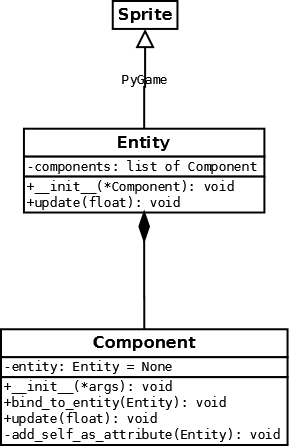
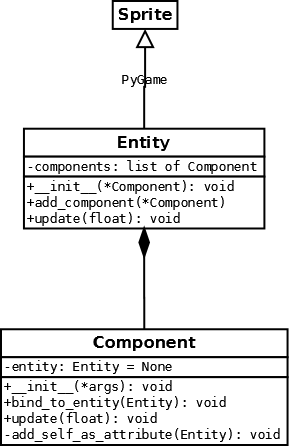
Entity: Add add_component()

Changed region(s): [[0.0623, 0.4362, 0.9343, 0.5817]]

diff --git a/entity.py b/entity.py
@@ -30,8 +30,18 @@ class Entity(Sprite):
         Args:
             *components: The Component objects that make up this Entity.
         """
-        self.components = components
+        self.components = []
+        self.add_component(components)
+
+    def add_component(self, *components):
+        """Bind one or multiple components to this Entity.
+
+        Args:
+            *components: One or more Component objects that will be
+                bound to this Entity.
+        """
         for component in components:
+            self.components.append(component)
             component.bind_to_entity(self)
 
 
